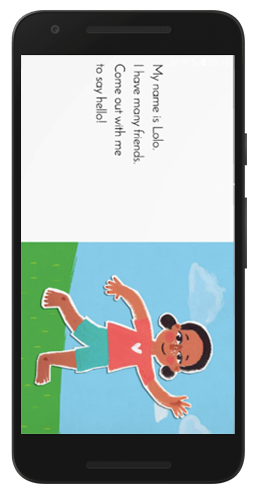
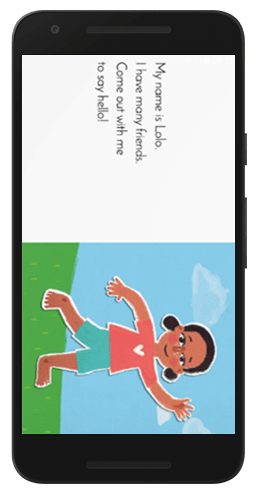
broca img update

diff --git a/success-stories/broca.html b/success-stories/broca.html
@@ -5,184 +5,184 @@
 <html lang="en">
 
 <head>
-  <meta charset="utf-8" />
-  <meta http-equiv="X-UA-Compatible" content="IE=edge">
-  <title>Adroit Alliance | Broca</title>
-  <link rel="shortcut icon" href="../img/icon.ico">
-  <meta name="viewport" content="width=device-width, initial-scale=1">
-  <link rel="stylesheet" href="../css/bootstrap.min.css">
-  <link rel="stylesheet" href="../css/owl.carousel.min.css">
-  <link rel="stylesheet" href="https://demo.voidcoders.com/htmldemo/fitgear/main-files/assets/css/animate.css">
-  <link rel="stylesheet" href="https://use.fontawesome.com/releases/v5.6.3/css/all.css">
-  <link rel="stylesheet" href="https://cdnjs.cloudflare.com/ajax/libs/font-awesome/4.7.0/css/font-awesome.min.css">
-  <link href="../css/broca.css" rel="stylesheet">
+    <meta charset="utf-8" />
+    <meta http-equiv="X-UA-Compatible" content="IE=edge">
+    <title>Adroit Alliance | Broca</title>
+    <link rel="shortcut icon" href="../img/icon.ico">
+    <meta name="viewport" content="width=device-width, initial-scale=1">
+    <link rel="stylesheet" href="../css/bootstrap.min.css">
+    <link rel="stylesheet" href="../css/owl.carousel.min.css">
+    <link rel="stylesheet" href="https://demo.voidcoders.com/htmldemo/fitgear/main-files/assets/css/animate.css">
+    <link rel="stylesheet" href="https://use.fontawesome.com/releases/v5.6.3/css/all.css">
+    <link rel="stylesheet" href="https://cdnjs.cloudflare.com/ajax/libs/font-awesome/4.7.0/css/font-awesome.min.css">
+    <link href="../css/broca.css" rel="stylesheet">
 
 </head>
 
 <body>
-  <div class="logo">
-    <a href="#Broca"><img src="../img/broca/logo.png"></a>
-  </div>
-
-  <div class="menu-collapsed">
-    <div class="bar"></div>
-    <nav>
-      <ul><br>
-        <a href="../index.html"><span>Home</span></a>
-        <a href="../index.html#about-us">Who Are We?</a>
-        <a href="../index.html#success-stories">Success Stories</a>
-        <a href="../index.html#services">Our Services</a>
-        <a href="#footer">Contact Us</a>
-      </ul>
-    </nav>
-  </div>
-
-  <!--Information-->
-
-  <div id="Broca" class="information3">
-    <h2><a href="alliance.html">
-        <z class="left"></z>
-      </a></h2>
-    <div class="information">
-      <h2 style="color:#46a6d9;"><b>Broca</b></h2>
-      <h4 style="color:#46a6d9" class="tag">Online School For Dyslexic Students</h4>
+    <div class="logo">
+        <a href="#Broca"><img src="../img/broca/logo.png"></a>
     </div>
-    <h2><a href="supermarket.html">
-        <z class="right"></z>
-      </a></h2>
-  </div>
-  <br>
 
-  <div class="carousel">
-    <div class="carousel__control">
+    <div class="menu-collapsed">
+        <div class="bar"></div>
+        <nav>
+            <ul><br>
+                <a href="../index.html"><span>Home</span></a>
+                <a href="../index.html#about-us">Who Are We?</a>
+                <a href="../index.html#success-stories">Success Stories</a>
+                <a href="../index.html#services">Our Services</a>
+                <a href="#footer">Contact Us</a>
+            </ul>
+        </nav>
     </div>
-    <div class="carousel__stage">
-      <div class="spinner spinner--left">
-        <div class="spinner__face js-active" data-bg="#E3E3E3">
-          <div class="content" data-type="foodcamp">
-            <div class="content__left">
-            </div>
-            <div class="content__right">
-              <div class="content__main">
-                <h1 style="color:black">The Problem</h1><br>
-                <p style="color:black">Dyslexia is a general term for disorder that involve difficulty in learning to
-                  read or interpret words,
-                  letters, and other symbols. Such children find it difficult to cope up in school as their pace and way
-                  of learning is different
-                  then what is generally followed in schools.</p>
-              </div>
-            </div>
-          </div>
+
+    <!--Information-->
+
+    <div id="Broca" class="information3">
+        <h2>
+            <a href="alliance.html">
+                <z class="left"></z>
+            </a>
+        </h2>
+        <div class="information">
+            <h2 style="color:#46a6d9;"><b>Broca</b></h2>
+            <h4 style="color:#46a6d9" class="tag">Online School For Dyslexic Students</h4>
         </div>
-        <div class="spinner__face" data-bg="#E3E3E3">
-          <div class="content" data-type="queue">
-            <div class="content__left">
-            </div>
-            <div class="content__right">
-              <div class="content__main">
-                <h1 style="color:black">Our Solution</h1>
-                <p style="color:black"><br>Keeping the problems faced by people suffering from dyslexia, we created a
-                  mobile application
-                  which helps in the process of their learning in the pace and pattern comfortable to them. Since they
-                  grasp more by hearing
-                  and seeing then listening, the application uses features like text to speech, alphabet calibration and
-                  spell checks which
-                  teaches students in a fun way.</p>
-              </div>
-            </div>
-          </div>
+        <h2>
+            <a href="supermarket.html">
+                <z class="right"></z>
+            </a>
+        </h2>
+    </div>
+    <br>
+
+    <div class="carousel">
+        <div class="carousel__control">
         </div>
-      </div>
+        <div class="carousel__stage">
+            <div class="spinner spinner--left">
+                <div class="spinner__face js-active" data-bg="#E3E3E3">
+                    <div class="content" data-type="foodcamp">
+                        <div class="content__left">
+                        </div>
+                        <div class="content__right">
+                            <div class="content__main">
+                                <h1 style="color:black">The Problem</h1><br>
+                                <p style="color:black">Dyslexia is a general term for disorder that involve difficulty in learning to read or interpret words, letters, and other symbols. Such children find it difficult to cope up in school as their pace and way of learning
+                                    is different then what is generally followed in schools.</p>
+                            </div>
+                        </div>
+                    </div>
+                </div>
+                <div class="spinner__face" data-bg="#E3E3E3">
+                    <div class="content" data-type="queue">
+                        <div class="content__left">
+                        </div>
+                        <div class="content__right">
+                            <div class="content__main">
+                                <h1 style="color:black">Our Solution</h1>
+                                <p style="color:black"><br>Keeping the problems faced by people suffering from dyslexia, we created a mobile application which helps in the process of their learning in the pace and pattern comfortable to them. Since they grasp more by hearing
+                                    and seeing then listening, the application uses features like text to speech, alphabet calibration and spell checks which teaches students in a fun way.</p>
+                            </div>
+                        </div>
+                    </div>
+                </div>
+            </div>
+        </div>
     </div>
-  </div>
 
-  <br>
+    <br>
 
-  <section id="features">
-    <div class="features-inner">
-      <div class="features-image"><img src="../img/broca/phone1.gif" /></div>
-      <ul class="features-list list-1">
-        <li class="features-item" data-src="../img/broca/phone1.png"><br>
-          <h3 class="features-item-header" style="color:#46a6d9">Feature 1</h3>
-          <p class="features-item-text">Make your students trace alphabets directly on the screen, so that the live
-            tracing system can detect if the student crosses the alphabet boundary.</p>
-        </li>
-        <li class="features-item" data-src=../img/broca/phone2.png> <h3 class="features-item-header"
-          style="color:#46a6d9"><br>Feature 2</h3>
-          <p class="features-item-text">Make your students listen to alphabets & words directly from the app with the
-            visual aids provided.</p>
-        </li>
-      </ul>
-      <ul class="features-list list-2">
-        <li class="features-item" data-src=../img/broca/phone3.png> <h3 class="features-item-header"
-          style="color:#46a6d9">Feature 3</h3>
-          <p class="features-item-text">Record the words said by the student and make them understand the mistake, if
-            any.</p>
-        </li>
-        <li class="features-item" data-src=../img/broca/phone4.png> <h3 class="features-item-header"
-          style="color:#46a6d9"><br><br>Feature 4</h3>
-          <p class="features-item-text">Get access to special story books to develop your student's social skills. </p>
-        </li>
-      </ul>
-    </div>
-  </section>
+    <section id="features">
+        <div class="features-inner">
+            <div class="features-image"><img src="../img/broca/phone.png" /></div>
+            <ul class="features-list list-1">
+                <li class="features-item" data-src="../img/broca/phone1.png"><br>
+                    <h3 class="features-item-header" style="color:#46a6d9">Feature 1</h3>
+                    <p class="features-item-text">Make your students trace alphabets directly on the screen, so that the live tracing system can detect if the student crosses the alphabet boundary.</p>
+                </li>
+                <li class="features-item" data-src=../img/broca/phone2.png>
+                    <h3 class="features-item-header" style="color:#46a6d9"><br>Feature 2</h3>
+                    <p class="features-item-text">Make your students listen to alphabets & words directly from the app with the visual aids provided.</p>
+                </li>
+            </ul>
+            <ul class="features-list list-2">
+                <li class="features-item" data-src=../img/broca/phone3.png>
+                    <h3 class="features-item-header" style="color:#46a6d9">Feature 3</h3>
+                    <p class="features-item-text">Record the words said by the student and make them understand the mistake, if any.
+                    </p>
+                </li>
+                <li class="features-item" data-src=../img/broca/phone4.png>
+                    <h3 class="features-item-header" style="color:#46a6d9"><br><br>Feature 4</h3>
+                    <p class="features-item-text">Get access to special story books to develop your student's social skills. </p>
+                </li>
+            </ul>
+        </div>
+    </section>
 
 
-  <!--Footer-->
-  <div class="hundred"><br><br><br><br>
+    <!--Footer-->
+    <div class="hundred"><br><br><br><br>
 
-    <img id="footer" class="foot" src="../img/contact.gif" alt=""><br><br>
+        <img id="footer" class="foot" src="../img/contact.gif" alt=""><br><br>
 
-    <div class="social-container">
-      <div class="social-icons">
-        <li><a href="https://www.instagram.com/adroitalliance/" target="_blank"><i class="fa fa-instagram"></i></a></li>
-        <li><a href="https://www.facebook.com/adroitalliance/" target="_blank">
-            <j class="fa fa-facebook"></j>
-          </a></li>
-        <li><a href="https://twitter.com/AllianceAdroit" target="_blank"><i class="fa fa-twitter"></i></a></li>
-        <li><a href="https://www.linkedin.com/company/adroit-alliance/about/" target="_blank"><i
+        <div class="social-container">
+            <div class="social-icons">
+                <li><a href="https://www.instagram.com/adroitalliance/" target="_blank"><i class="fa fa-instagram"></i></a></li>
+                <li>
+                    <a href="https://www.facebook.com/adroitalliance/" target="_blank">
+                        <j class="fa fa-facebook"></j>
+                    </a>
+                </li>
+                <li><a href="https://twitter.com/AllianceAdroit" target="_blank"><i class="fa fa-twitter"></i></a></li>
+                <li><a href="https://www.linkedin.com/company/adroit-alliance/about/" target="_blank"><i
               class="fa fa-linkedin"></i></a></li>
-        <li><a href="https://www.tumblr.com/blog/adroitalliance" target="_blank">
-            <k class="fa fa-tumblr"></k>
-          </a></li>
-      </div>
-      <h6>
-        <a style="color:white" href="mailto:hola@adroitalliance.in?Subject=Enquiry">hola@adroitalliance.in</a><br><br>
+                <li>
+                    <a href="https://www.tumblr.com/blog/adroitalliance" target="_blank">
+                        <k class="fa fa-tumblr"></k>
+                    </a>
+                </li>
+            </div>
+            <h6>
+                <a style="color:white" href="mailto:hola@adroitalliance.in?Subject=Enquiry">hola@adroitalliance.in</a><br><br>
 
-        <img id="footer" class="foot" src="../img/contact.png" alt="">
+                <img id="footer" class="foot" src="../img/contact.png" alt="">
 
-      </h6>
+            </h6>
 
-      <footer class="text-center">
-          <!-- Copyright removal is not prohibited! -->
-          <a style="font-family:Helvica"><b style="font-size:13px;color:white"><br><br><br>COPYRIGHT ©
+            <footer class="text-center">
+                <!-- Copyright removal is not prohibited! -->
+                <a style="font-family:Helvica"><b style="font-size:13px;color:white"><br><br><br>COPYRIGHT ©
   
               <script>document.write(new Date().getFullYear());</script>. ALL RIGHTS RESERVED.<br></b></a>
-          <a href="../terms.html" target="_blank" class="term" style="font-family:Helvica"><b
+                <a href="../terms.html" target="_blank" class="term" style="font-family:Helvica"><b
               style="font-size:13px;color:white">DISCLAIMER</b></a>
-        </footer>
-        
+            </footer>
+
+        </div>
     </div>
-  </div>
 
-  <script src="../js/jquery-3.2.1.min.js"></script>
-  <script src="../js/bootstrap.bundle.min.js"></script>
-  <script src="../js/owl.carousel.min.js"></script>
-  <script src="../js/main.js"></script>
-  <script src="../js/success-stories.js"></script>
+    <script src="../js/jquery-3.2.1.min.js"></script>
+    <script src="../js/bootstrap.bundle.min.js"></script>
+    <script src="../js/owl.carousel.min.js"></script>
+    <script src="../js/main.js"></script>
+    <script src="../js/success-stories.js"></script>
 
-  <!--Start of Tawk.to Script-->
-  <script type="text/javascript">
-    var Tawk_API = Tawk_API || {}, Tawk_LoadStart = new Date();
-    (function () {
-      var s1 = document.createElement("script"), s0 = document.getElementsByTagName("script")[0];
-      s1.async = true;
-      s1.src = 'https://embed.tawk.to/5cd52b50d07d7e0c6392dfbb/default';
-      s1.charset = 'UTF-8';
-      s1.setAttribute('crossorigin', '*');
-      s0.parentNode.insertBefore(s1, s0);
-    })();
-  </script>
+    <!--Start of Tawk.to Script-->
+    <script type="text/javascript">
+        var Tawk_API = Tawk_API || {},
+            Tawk_LoadStart = new Date();
+        (function() {
+            var s1 = document.createElement("script"),
+                s0 = document.getElementsByTagName("script")[0];
+            s1.async = true;
+            s1.src = 'https://embed.tawk.to/5cd52b50d07d7e0c6392dfbb/default';
+            s1.charset = 'UTF-8';
+            s1.setAttribute('crossorigin', '*');
+            s0.parentNode.insertBefore(s1, s0);
+        })();
+    </script>
 </body>
 
 </html>
